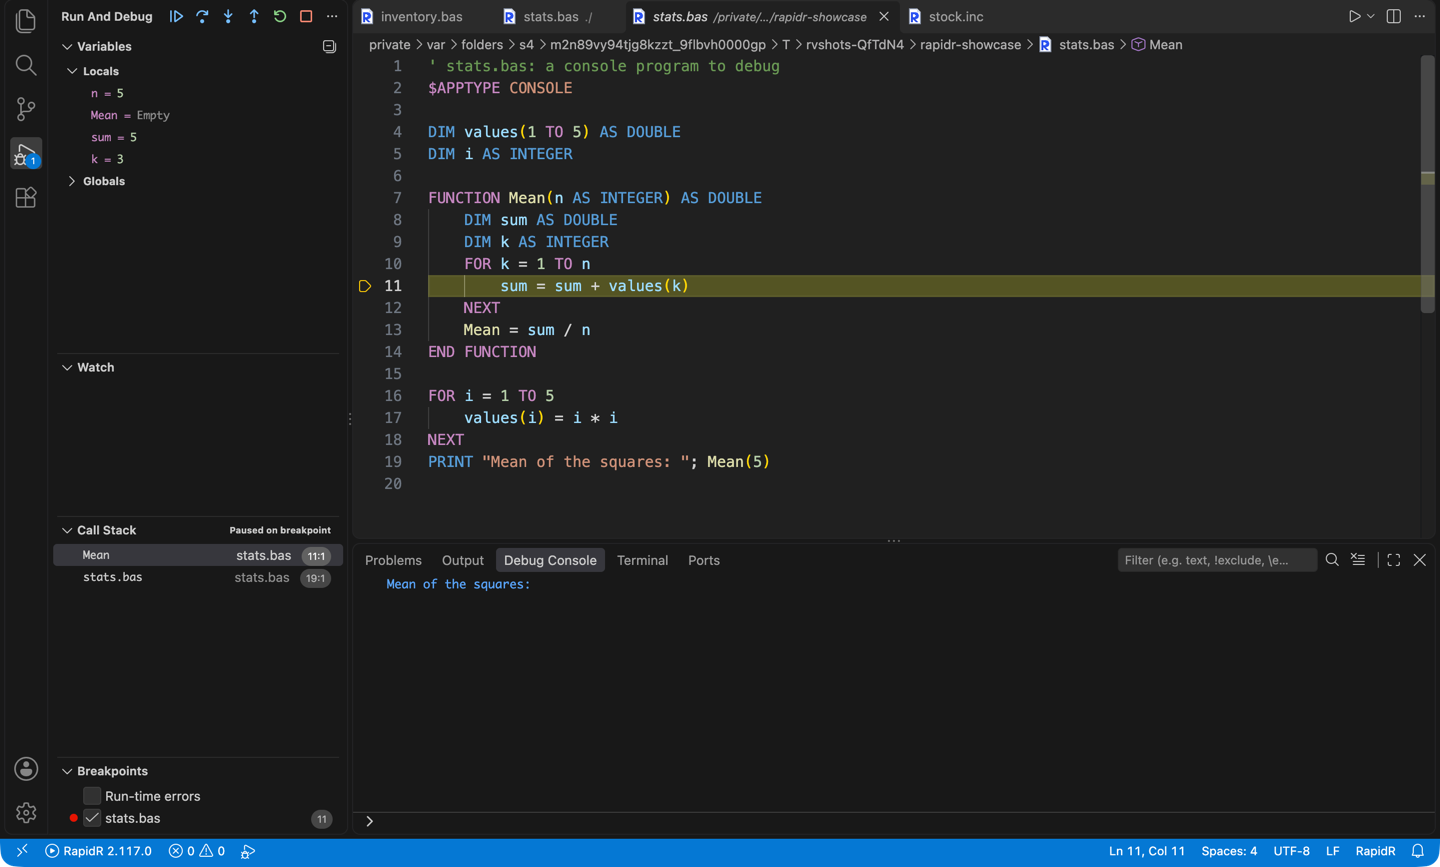
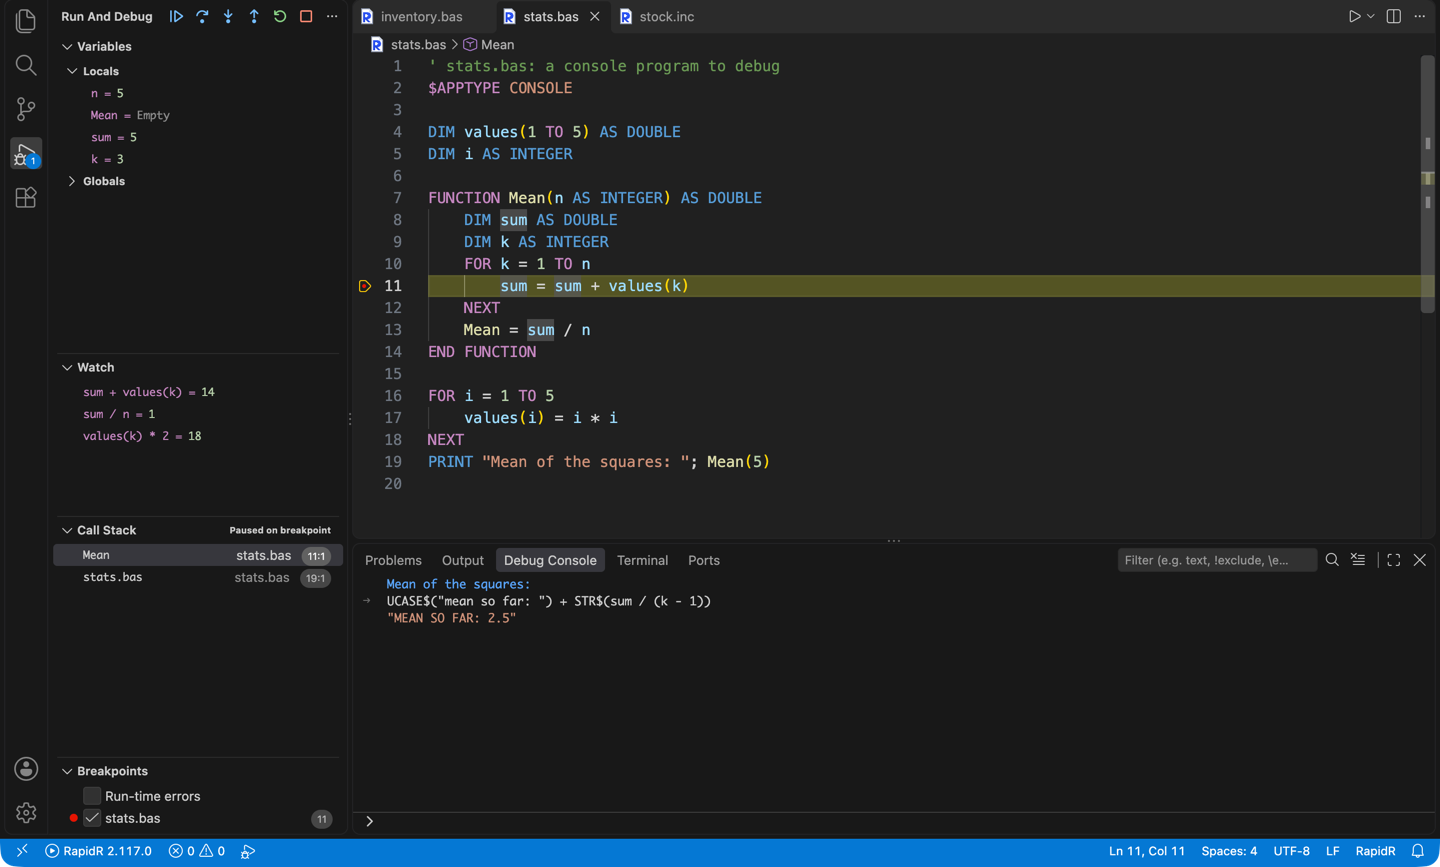
feat(vscode): debug watches and the console evaluate expressions; unsaved includes; screenshots retaken
- rapidr dap: values never assigned show as Empty; paths stay as the
  editor wrote them (a resolved /private/var path opened a second editor
  for the same file).
- Extension tests (19): watches evaluating expressions, the debug console
  printing an expression and running a statement, an $INCLUDE edited and
  not saved seen by diagnostics and go to definition.
- Screenshots retaken (npm run screenshots); the debug one shows watches
  evaluated by the VM and the debug console.
- VSCODE_EXTENSION.md, the README and docs/ide-plan.md's results: the
  second round.

diff --git a/utilities/vscodeext/rapidr/test/suite/extension.test.js b/utilities/vscodeext/rapidr/test/suite/extension.test.js
@@ -263,11 +263,20 @@ describe('RapidR for VS Code', () => {
                 assert.ok(names.includes('i') && names.includes('n'), `locals: ${names.join(', ')}`);
                 const ev = await session.customRequest('evaluate', { expression: 'n', frameId: top.id, context: 'watch' });
                 assert.strictEqual(ev.result, '3');
+                // Watches are expressions, evaluated by the VM in the frame.
+                const watch = (expression) => session.customRequest('evaluate', { expression, frameId: top.id, context: 'watch' }).then((r) => r.result);
+                assert.strictEqual(await watch('n * 10 + i'), '31');
+                assert.strictEqual(await watch('total + i'), '1');
+                assert.strictEqual(await watch('"i=" + STR$(i)'), '"i=1"');
+                // The debug console prints an expression, runs a statement.
+                await session.customRequest('evaluate', { expression: 'total = 100', frameId: top.id, context: 'repl' });
+                const repl = await session.customRequest('evaluate', { expression: 'total * 2', frameId: top.id, context: 'repl' });
+                assert.strictEqual(repl.result, '200');
                 vscode.debug.removeBreakpoints([bp]);
                 await session.customRequest('continue', { threadId });
                 await eventually(() => events.find((e) => e.event === 'terminated'), 'the end of the program');
                 const out = events.filter((e) => e.event === 'output').map((e) => e.body.output).join('');
-                assert.match(out, /total\s*6/, `output: ${out}`);
+                assert.match(out, /total\s*106/, `output: ${out}`);
             } finally {
                 tracker.dispose();
                 vscode.debug.removeBreakpoints(vscode.debug.breakpoints);
@@ -286,6 +295,26 @@ describe('RapidR for VS Code', () => {
             assert.ok(d, `messages: ${diags.map((x) => x.message).join(' | ')}`);
             assert.strictEqual(d.severity, vscode.DiagnosticSeverity.Error);
             assert.strictEqual(d.range.start.line, at(doc, 'undeclaredThing = 2').line);
+        });
+
+        it('sees an $INCLUDEd file as the editor has it, saved or not', async () => {
+            const main = await open('unsaved.bas');
+            await eventually(() => vscode.languages.getDiagnostics(main.uri).some((d) => /Triple/.test(d.message)), 'the error before the edit');
+            const inc = await open('unsaved.inc');
+            const editor = vscode.window.activeTextEditor;
+            await editor.edit((e) => e.insert(new vscode.Position(1, 0), 'FUNCTION Triple(n AS INTEGER) AS INTEGER\n    Triple = n * 3\nEND FUNCTION\n'));
+            assert.ok(inc.isDirty, 'the include is edited and not saved');
+            try {
+                await eventually(() => vscode.languages.getDiagnostics(main.uri).length === 0, 'no error once the include has Triple');
+                const pos = at(main, 'Triple(', 2);
+                const locs = await vscode.commands.executeCommand('vscode.executeDefinitionProvider', main.uri, pos);
+                assert.strictEqual(path.basename(targetUri(locs[0]).fsPath), 'unsaved.inc');
+                const range = locs[0].targetSelectionRange || locs[0].targetRange || locs[0].range;
+                assert.strictEqual(range.start.line, 1, 'the line the editor has it on');
+            } finally {
+                await vscode.window.showTextDocument(inc);
+                await vscode.commands.executeCommand('workbench.action.files.revert');
+            }
         });
 
         it('reports no error in a correct program', async () => {

diff --git a/utilities/vscodeext/rapidr/test/screenshots/driver.js b/utilities/vscodeext/rapidr/test/screenshots/driver.js
@@ -120,7 +120,8 @@ exports.run = async function () {
     await sleep(1500);
     await shot('outline');
 
-    // 6. Debugging: a breakpoint, the variables, a data tip.
+    // 6. Debugging: a breakpoint, the variables, watches and the debug
+    // console evaluating expressions in the stopped frame.
     ed = await open(path.join(ws, 'stats.bas'));
     at = lineOf(ed, '        sum = sum + values(k)');
     vscode.debug.addBreakpoints([new vscode.SourceBreakpoint(new vscode.Location(ed.document.uri, at))]);
@@ -136,10 +137,39 @@ exports.run = async function () {
     }
     await sleep(800);
     await vscode.commands.executeCommand('workbench.view.debug');
-    await sleep(800);
-    ed = vscode.window.activeTextEditor || ed;
-    await placeCaret(ed, at.translate(0, '        su'.length));
     await sleep(500);
+    // Watches: expressions of the program, evaluated by the VM in the frame
+    // (selected in the editor, "Add to Watch").
+    for (const expr of ['sum + values(k)', 'sum / n', 'values(k) * 2']) {
+        // (the command takes the focused editor's selection; an expression
+        // the program doesn't have is typed on a scratch line, then undone)
+        ed = await vscode.window.showTextDocument(ed.document, { preserveFocus: false });
+        let typed = false;
+        if (!ed.document.getText().includes(expr)) {
+            await ed.edit((e) => e.insert(new vscode.Position(ed.document.lineCount - 1, 0), `' ${expr}\n`));
+            typed = true;
+        }
+        const i = ed.document.getText().indexOf(expr);
+        ed.selection = new vscode.Selection(ed.document.positionAt(i), ed.document.positionAt(i + expr.length));
+        await sleep(200);
+        await vscode.commands.executeCommand('editor.debug.action.selectionToWatch');
+        await sleep(300);
+        if (typed) {
+            await vscode.commands.executeCommand('undo');
+        }
+        continue;
+        await vscode.commands.executeCommand('editor.debug.action.selectionToWatch');
+        await sleep(400);
+    }
+    // The debug console: an expression typed there is printed.
+    await vscode.commands.executeCommand('workbench.debug.action.focusRepl');
+    await sleep(500);
+    await vscode.commands.executeCommand('type', { text: 'UCASE$("mean so far: ") + STR$(sum / (k - 1))' });
+    await vscode.commands.executeCommand('repl.action.acceptInput');
+    await sleep(1200);
+    await vscode.window.showTextDocument(ed.document, { preserveFocus: false });
+    await placeCaret(ed, at.translate(0, '        su'.length));
+    await sleep(800);
     await shot('debug');
     await vscode.commands.executeCommand('workbench.action.debug.stop');
     tracker.dispose();

diff --git a/crates/rapidr-dap/src/adapter.rs b/crates/rapidr-dap/src/adapter.rs
@@ -207,9 +207,10 @@ impl<W: Write> Adapter<W> {
     }
 
     fn remember_path(&mut self, path: &Path) {
+        // (as the editor wrote it, never resolved: /var/… and /private/var/…
+        // are the same file to the system but two editors to VS Code)
         if let Some(name) = path.file_name().and_then(|n| n.to_str()) {
-            let path = path.canonicalize().unwrap_or_else(|_| path.to_path_buf());
-            self.paths.entry(name.to_ascii_lowercase()).or_insert(path);
+            self.paths.entry(name.to_ascii_lowercase()).or_insert_with(|| path.to_path_buf());
         }
     }
 
@@ -409,7 +410,6 @@ impl<W: Write> Adapter<W> {
         if !program.is_file() {
             return Err(format!("{}: no such file", program.display()));
         }
-        let program = program.canonicalize().unwrap_or(program);
         self.program_dir = program.parent().map(Path::to_path_buf);
         self.remember_path(&program);
         // (the files it includes, as the preprocessor finds them)
@@ -541,7 +541,7 @@ impl<W: Write> Adapter<W> {
                     .iter()
                     .map(|var| {
                         let path = child_path(parent.as_deref(), &var.name);
-                        let mut v = json!({ "name": var.name, "value": var.value, "type": var.kind, "variablesReference": var.reference, "evaluateName": path });
+                        let mut v = json!({ "name": var.name, "value": shown(&var.value, &var.kind), "type": var.kind, "variablesReference": var.reference, "evaluateName": path });
                         if var.reference != 0 {
                             self.refs.insert(var.reference, (frame, Some(path)));
                             if var.kind == "Array" {
@@ -559,7 +559,7 @@ impl<W: Write> Adapter<W> {
                 if reference != 0 {
                     self.refs.insert(reference, (frame, Some(expr.trim().trim_start_matches('?').trim().to_string())));
                 }
-                self.respond(seq, &command, Some(json!({ "result": result, "type": kind, "variablesReference": reference })));
+                self.respond(seq, &command, Some(json!({ "result": shown(&result, &kind), "type": kind, "variablesReference": reference })));
             }
             (Pending::SetVariable { path, frame }, EventBody::Evaluate { result, kind, reference }) => {
                 if reference != 0 {
@@ -615,6 +615,16 @@ impl<W: Write> Adapter<W> {
 
 /// The expression naming a child of `parent`: an element `a(1)`, a field
 /// `p.Name` (a scope's variable: just its name).
+/// A value as the editor shows it: a variable never assigned is `Empty`
+/// (the session sends no text for it).
+fn shown(value: &str, kind: &str) -> String {
+    if value.is_empty() && kind == "Empty" {
+        "Empty".to_string()
+    } else {
+        value.to_string()
+    }
+}
+
 /// What the debug console's text is for the session's `repl` evaluation:
 /// a statement as typed (an assignment, `PRINT …`, `CALL …`, `? …`), any
 /// other text as an expression to print (`? text`).

diff --git a/docs/ide-plan.md b/docs/ide-plan.md
@@ -795,3 +795,11 @@ RapidR's own icon set is done: every action, component, file type, symbol, toolb
 **Tests.** `tests/langsvc/` golden suite (10 cases, markers `|`, expectations as `'!` comments: completion / hover / definition / references / signature / rename / outline / diagnostics — CREATE bodies, WITH, TYPE methods and EXTENDS, `$INCLUDE` files, Q and R names, RapidQ's implicit scope, RAPIDQ.INC); every conformance error case's diagnostics (in-crate, and against `rapidr build-bc` over LSP); robustness: 569 programs (examples, conformance, RapidQ's corpus) asked every request at 25 places, whole and cut short, no panic (20 s release); LSP protocol tests over stdio (3); DAP protocol tests (6: breakpoints in two files, the stack, variables, stepping, pause, break on error with INPUT, a breakpoint in a GUI handler and in a modal form's timer); extension: 15 unit + 18 integration tests in a real VS Code (test-electron, throwaway profile) against the real `rapidr`, including a debug session. Screenshots: `npm run screenshots` (macOS) drives VS Code through each feature and writes `utilities/vscodeext/rapidr/images/*.png`.
 
 **Found on the way (not this lane's to change).** (1) `Obj.` alone at the end of a line joins the next line: `Form.` then `Nope x` compiles as a member call (`rapidr build-bc` accepts it) — the parser's member access crosses the line end. (2) With `$TYPECHECK ON`, an undeclared name as a method's argument (`List.AddItems itme`) isn't reported; an assignment's is. (3) The DAP lane saw a QTIMER never tick when MAIN ends with `Form.Show` (not ShowModal), with or without the debugger.
+
+**Second round (2026-10-06): on the foundations.** The seams above are closed — L-PARSE and L-SESS merged, L-REG still running:
+- **front.rs** is the parser for tools (`parse_source_for_tools`: the recovering lexer, the byte-level origin map — positions through `$DEFINE` / `$MACRO` exact). The program's other open files go to the preprocessor as `PreprocessOptions::virtual_files`: an `$INCLUDE`d file edited and not saved is what completion, navigation and diagnostics see; requests in an include are answered by the open program that includes it.
+- **model.rs** is `pub use rapidr_bcgen::semantic::*` (the interim walker is gone). The compiler's model gained, in `semantic.rs`: references to TYPE fields and methods through `Obj.Member`, `This`, WITH and fields of fields (rename and references of a field are exact); a TYPE extending another of the program's has it as parent scope; and a SUB's own undeclared variable — RC.EXE's implicit scope, which the compiler renames `Routine__name` — is that SUB's (hover: "variable of `Up` (implicit: its own, kept between calls)"), no longer merged with the main program's same name.
+- **rapidr-bcgen's diagnostics are structured**: `compile_program_diagnostics` (span, line, column, message; `error_text` prints exactly what the CLI printed before), mapped by the origin map; the text parsing is deleted.
+- **`rapidr dap` runs `rapidr run --session`**; `src/interim/` and the CLI's `__debuggee` are deleted, `session_wire` re-exports `rapidr_session::protocol`. Watches, hovers and the Variables view evaluate expressions in the frame on the VM; the debug console prints an expression and runs a statement (VB's Immediate); break on error inside an event handler keeps its frames and locals. `compile_snippet` names a routine's own implicit variables as the compiler does (a watch of `p` in the SUB that made it). Paths stay as the editor wrote them (a `/var` / `/private/var` pair opened the file twice).
+- Tests added: `crates/rapidr-langsvc/tests/open_files.rs` (an unsaved include; names after a `$DEFINE`), the implicit-scope golden case on RC.EXE's rule, LSP over stdio with an unsaved include, DAP expressions (watch / repl / hover) and a run-time error inside an event handler; extension: 19 integration tests (watch expressions and the console in the debug test; an unsaved include). Robustness (569 programs) and the bcgen corpus model test pass; VM conformance unchanged.
+- Found: the session's Globals scope lists a SUB's own variables under the compiler's names (`S__p`) — rapidr-session's `program.rs` should show them as `p` under that SUB's frame (L-SESS).

diff --git a/VSCODE_EXTENSION.md b/VSCODE_EXTENSION.md
@@ -40,7 +40,7 @@ The extension then runs `rapidr version`, which prints `RapidR <version>`. If `r
 
 ## Features
 
-- **Completion**: builtins, keywords, components (RapidQ's offered under their `Q` names, RapidR's own under `R` names; both names understood everywhere) and their properties, methods and events, and the program's own variables, constants, SUBs, FUNCTIONs and TYPEs, including those in `$INCLUDE` files. Member completion follows the variable's type, inside `WITH` and `CREATE` too. Completion triggers on `.`.
+- **Completion**: builtins, keywords, components (RapidQ's offered under their `Q` names, RapidR's own under `R` names; both names understood everywhere) and their properties, methods and events, and the program's own variables, constants, SUBs, FUNCTIONs and TYPEs, including those in `$INCLUDE` files (as the editor has them, saved or not). Member completion follows the variable's type, inside `WITH` and `CREATE` too. Completion triggers on `.`.
 - **Hover** with signatures and documentation, and **signature help** (triggered by `(` and `,`).
 - **Go to Definition**, also into `$INCLUDE` files; **Find All References**; **Rename Symbol**.
 - **Outline** and breadcrumbs: SUBs, FUNCTIONs, TYPEs, the CREATE tree.
@@ -102,6 +102,14 @@ The extension contributes the **`rapidr`** debug type. VS Code runs `rapidr dap`
 | `stopOnEntry` | Pause on the first statement. |
 | `noDebug` | Run without debugging. Ctrl+F5 sets this. |
 | `env` | Extra environment variables (`null` removes one). |
+
+The program runs as `rapidr run --session` (RapidR's program session protocol; RapidR Studio's debugger speaks it too). While it is stopped:
+
+- **Watches, hovers and the Variables view** evaluate BASIC expressions in the selected frame on the VM itself (`sum / n`, `UCASE$(name$)`, `values(k) * 2`, a component's property `Form.Caption`); arrays and TYPEs expand.
+- **The Debug Console** prints an expression (`total * 2`) and runs a statement (`total = 100`, `PRINT x`), as VB's Immediate window does. While the program runs, a line typed there is its `INPUT`.
+- **Set Value** in the Variables view takes any expression.
+- **Run-time errors** (the Breakpoints view's "Run-time errors"): the program stops at the faulting statement — in an event handler too — with its frames and locals.
+- Breakpoints work in any file of the program (`$INCLUDE` files included); pause stops a busy program at its next statement.
 
 ## Troubleshooting
 

diff --git a/utilities/vscodeext/rapidr/README.md b/utilities/vscodeext/rapidr/README.md
@@ -12,7 +12,7 @@ This extension is a thin client. The language intelligence comes from RapidR its
 
 ### IntelliSense that knows your program
 
-The completion list includes the builtins, the keywords, the components with their properties, methods and events, and your own variables, SUBs, FUNCTIONs and TYPEs. It also covers the files you `$INCLUDE`.
+The completion list includes the builtins, the keywords, the components with their properties, methods and events, and your own variables, SUBs, FUNCTIONs and TYPEs. It also covers the files you `$INCLUDE`, as the editor has them, saved or not.
 
 ```basic
 CREATE Form AS QFORM
@@ -72,6 +72,8 @@ Turn on **RapidQ-compatible** (`rapidr.rapidqCompatible`) for programs that must
 Run and Debug are also on the editor's title bar. Every command is in the RapidR status bar item, which shows the version of RapidR in use.
 
 ![Debugging](images/debug.png)
+
+While the program is stopped, watches, hovers and the Debug Console evaluate BASIC expressions in the frame you pick (`sum / n`, `UCASE$(name$)`, `Form.Caption`), and the Debug Console runs statements (`total = 100`). Tick **Run-time errors** under Breakpoints to stop where an error happens, in event handlers too.
 
 F5 works without a `launch.json`: it debugs the file in the active editor. To give a program arguments or a working folder, add a configuration:
 
